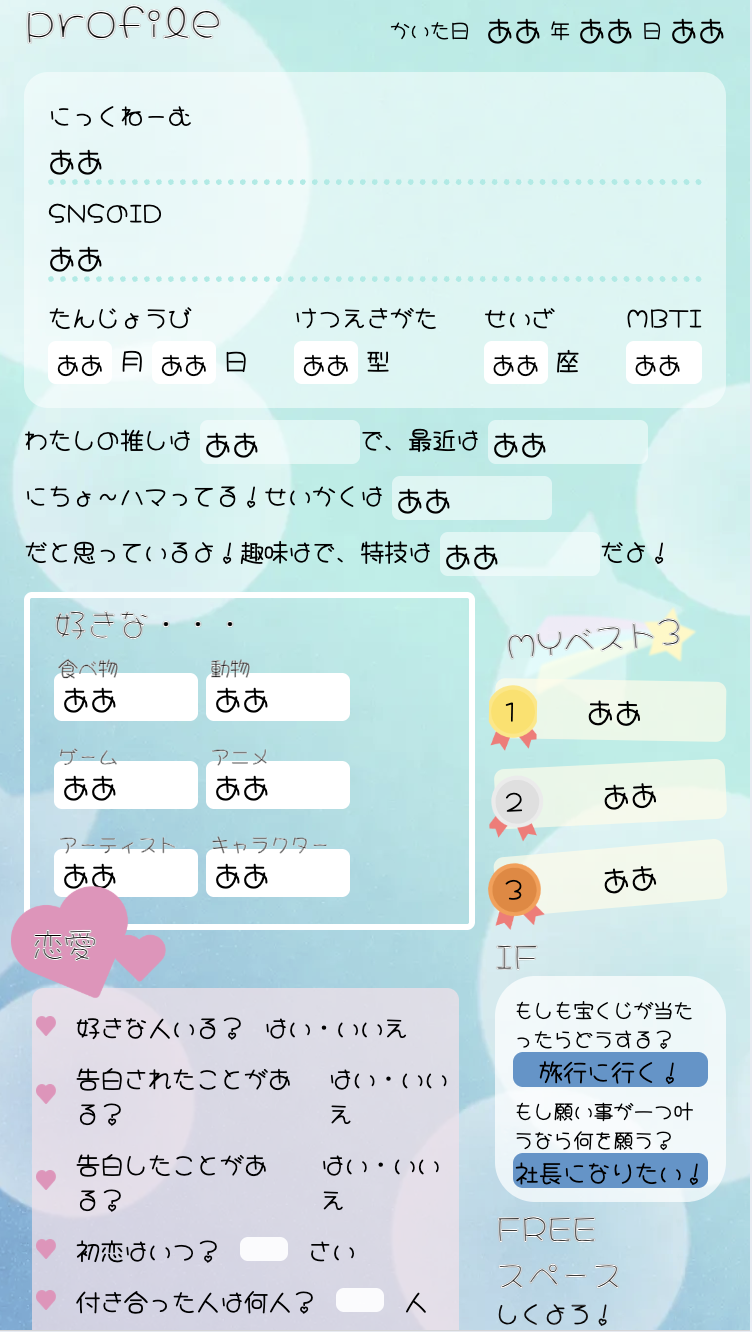
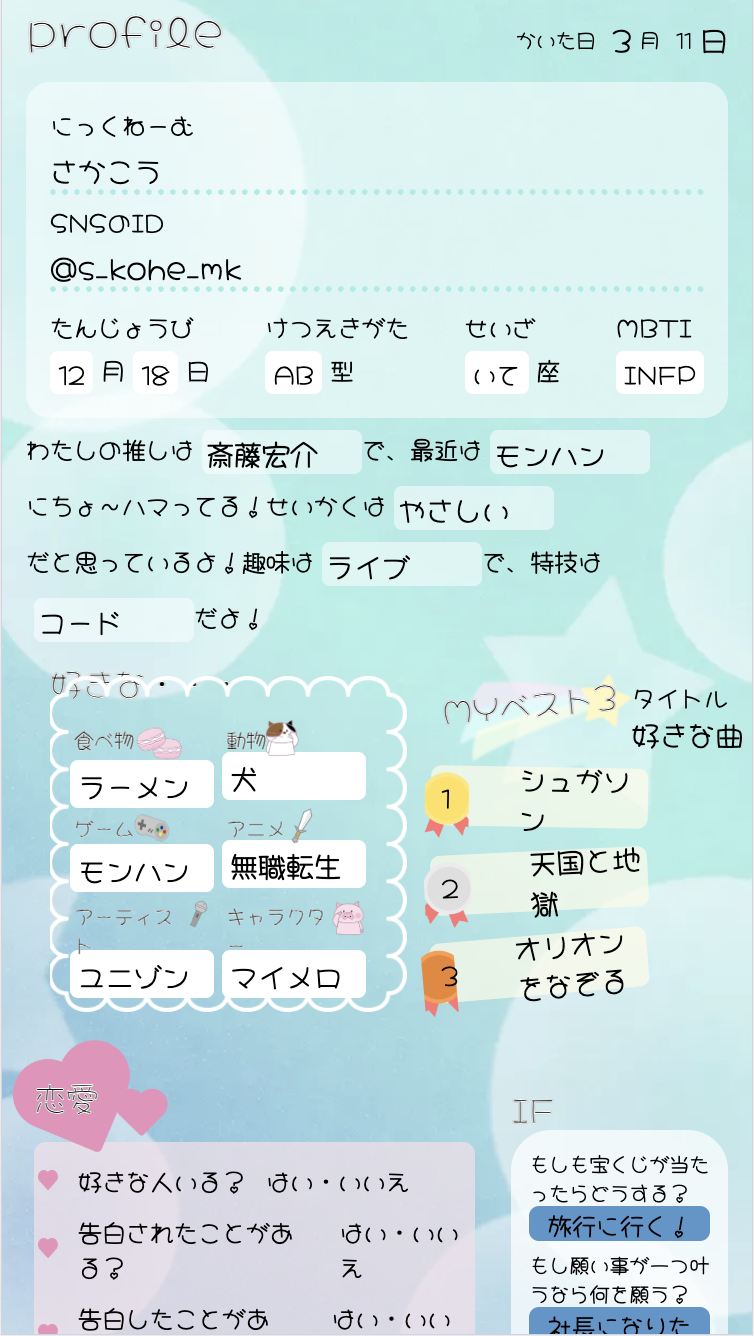
変更

diff --git a/input-page2.html b/input-page2.html
@@ -33,7 +33,7 @@
         <p class="title">アニメ</p>
         <input type="text" class="input" value="無職転生">
         <p class="title">アーティスト</p>
-        <input type="text" class="input" value="UNISON SQUARE GARDEN">
+        <input type="text" class="input" value="ユニゾン">
         <p class="title">キャラクター</p>
         <input type="text" class="input" value="マイメロ">
     </main>
